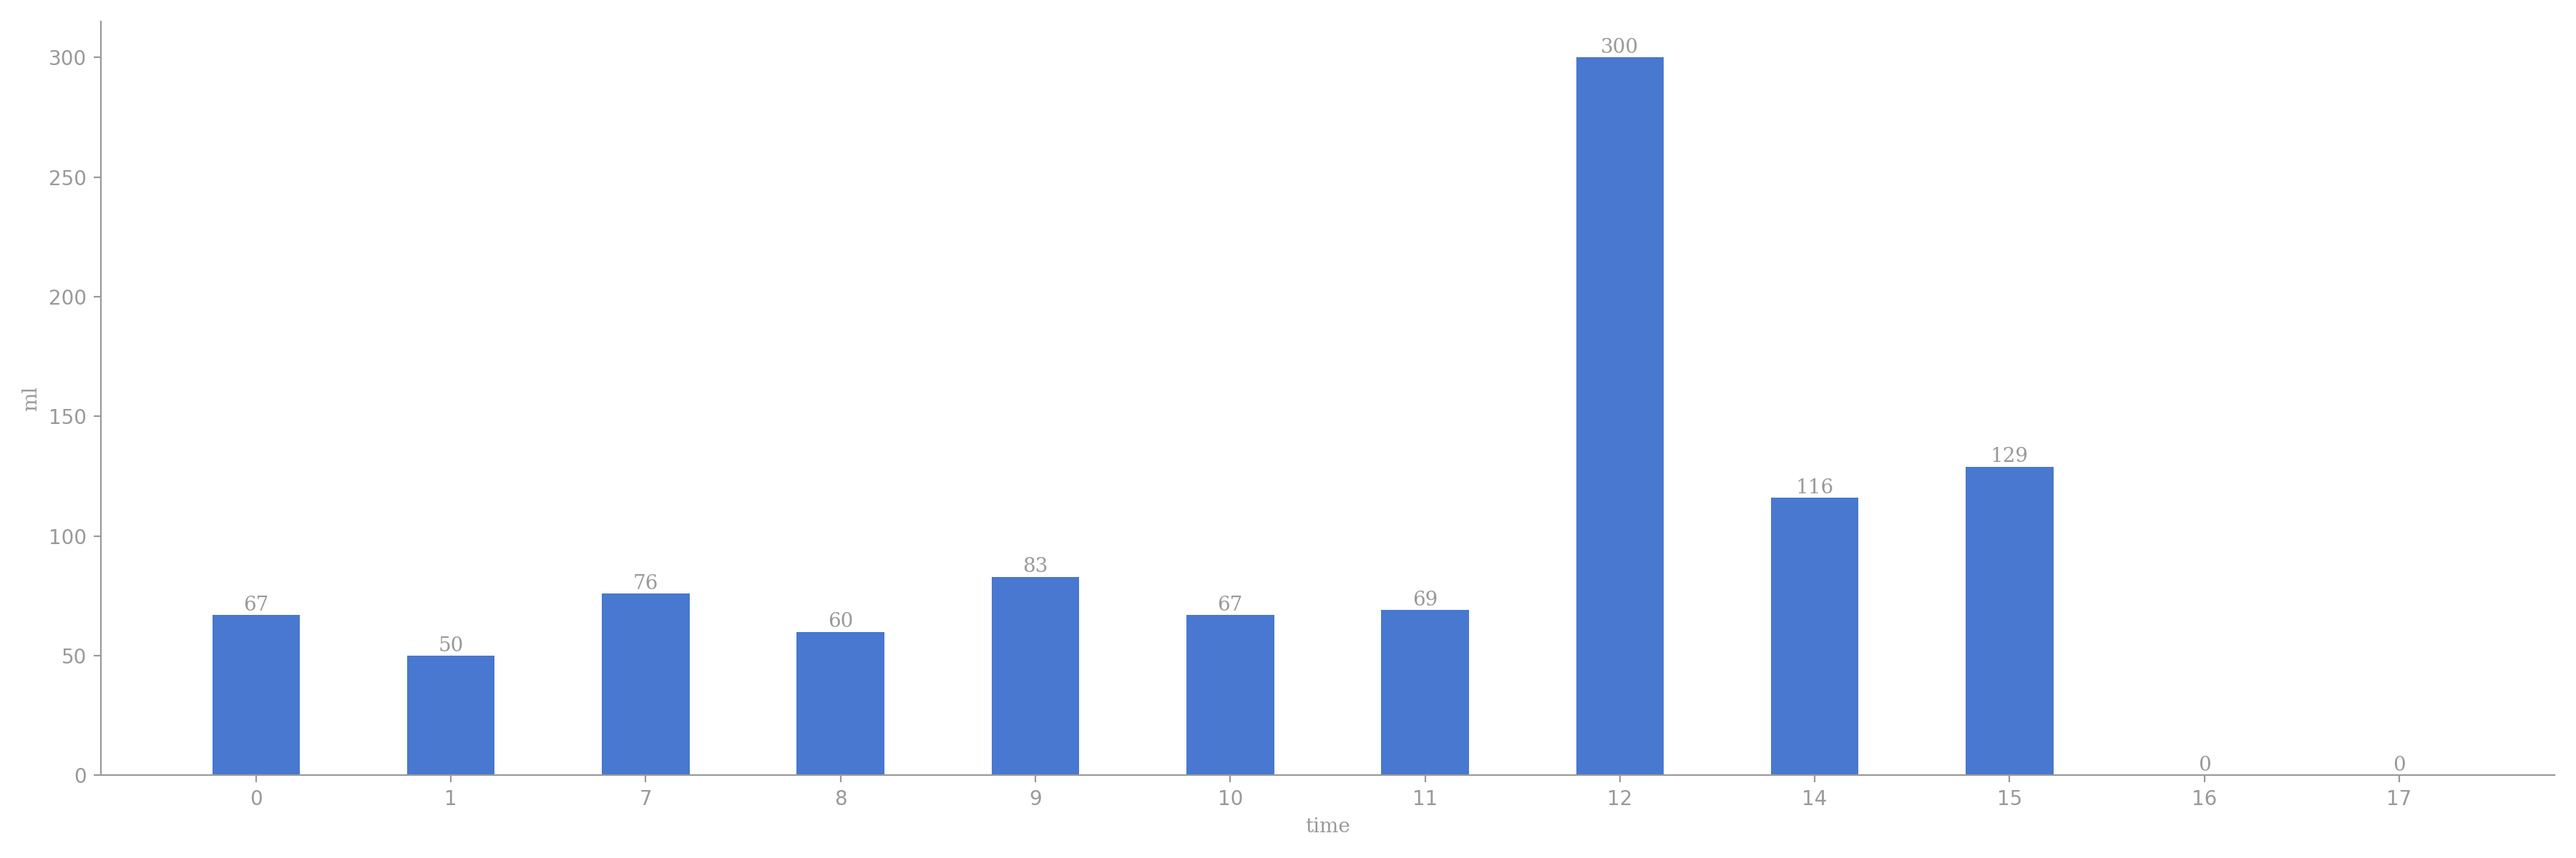
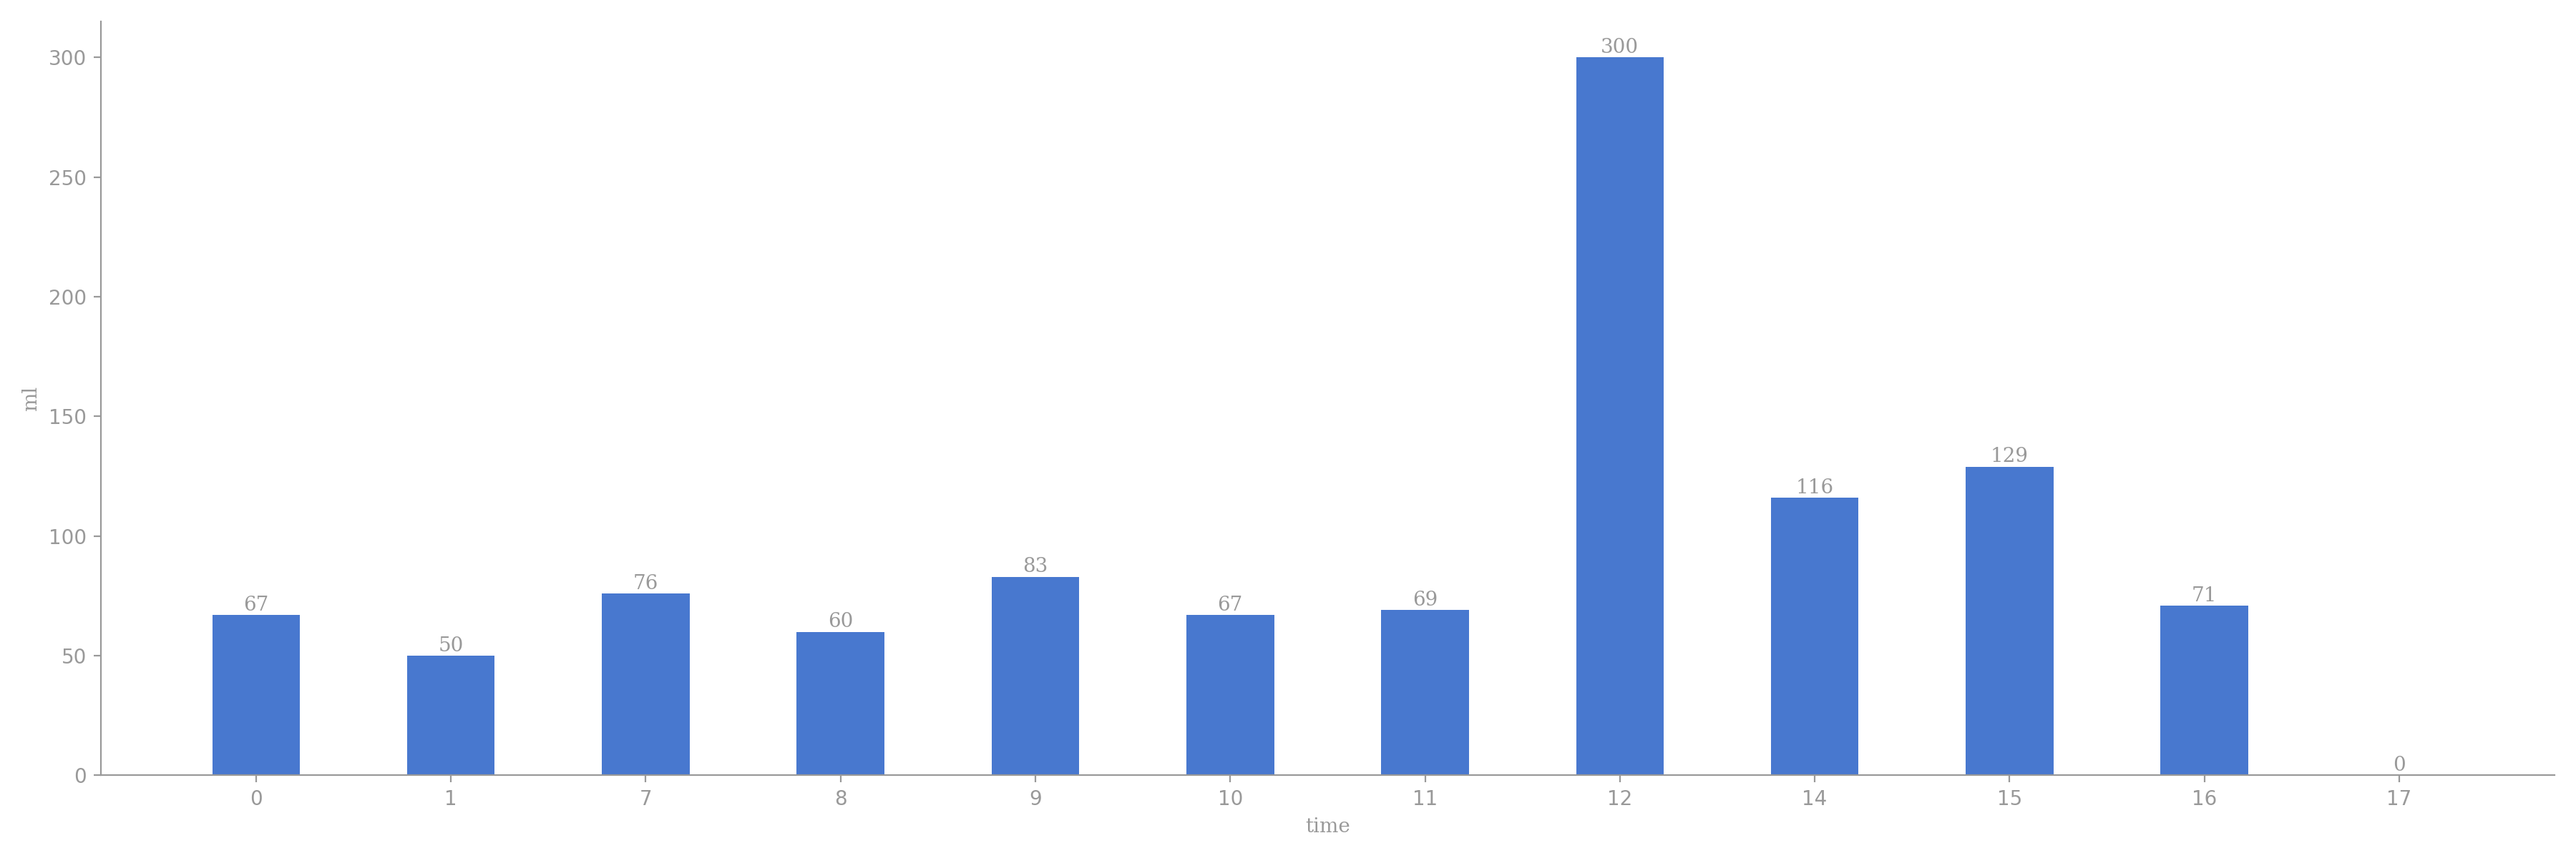
crontab auto git

Changed region(s): [[0.84, 0.6783, 0.8711, 0.925]]

diff --git a/README.md b/README.md
@@ -5,12 +5,12 @@
 
 | 今日总饮水量 | 每小时平均饮水量 |
 | :----: | :----: |
-| 1017 | 101 |
+| 1088 | 98 |
 </div>
 
-| 日期 | 00:21:25 | 01:17:03 | 07:23:34 | 08:10:34 | 09:21:22 | 10:59:40 | 11:20:18 | 12:43:39 | 14:06:03 | 14:45:11 | 15:22:23 | 15:56:21 |
-| :----: | :----: | :----: | :----: | :----: | :----: | :----: | :----: | :----: | :----: | :----: | :----: | :----: |
-| 2026-07-29 | 67 | 50 | 76 | 60 | 83 | 67 | 69 | 300 | 66 | 50 | 69 | 60 |
+| 日期 | 00:21:25 | 01:17:03 | 07:23:34 | 08:10:34 | 09:21:22 | 10:59:40 | 11:20:18 | 12:43:39 | 14:06:03 | 14:45:11 | 15:22:23 | 15:56:21 | 16:28:49 |
+| :----: | :----: | :----: | :----: | :----: | :----: | :----: | :----: | :----: | :----: | :----: | :----: | :----: | :----: |
+| 2026-07-29 | 67 | 50 | 76 | 60 | 83 | 67 | 69 | 300 | 66 | 50 | 69 | 60 | 71 |
 
 # 近30日饮水数据
 
